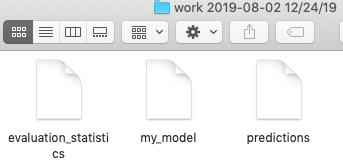
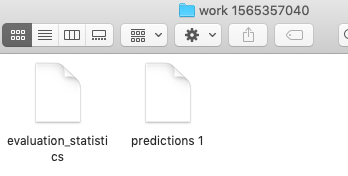
Minor changes

diff --git a/MalariaClassifier/README.md b/MalariaClassifier/README.md
@@ -230,7 +230,7 @@ if (grepl("darwin|linux-gnu", R.version$os)) {
 }
 
 ```
-in your masterscript (just after the beginning). This piece of code will automatically detect whether you're operating on Windows or Linux/MacOS, therefore it will set a peroper file path. I know we haven't created any masterscripts yet, this is the only step you're supposed to fulfill later. Don't worry, I will remind you to do it. 
+in your masterscript (just after the beginning). This piece of code will automatically detect whether you're operating on Windows or Linux/MacOS, as a result it will set a peroper file path. I know we haven't created any masterscripts yet, this is the only step you're supposed to fulfill later. Don't worry, I will remind you to do it. 
 
 Since we have the framework of our Malaria Classifier project, we can move on to developing our packages now.
 
@@ -290,16 +290,15 @@ Config.txt file is where you declare paths to folders, number of samples etc. At
 
 After running the code, open config.txt file which appeared in MalariaClassifier project folder and fill it similarily to mine:
 
-![Config.txt]()
+![Config.txt](https://github.com/WLOGSolutions/RSuite-examples/blob/malaria/MalariaClassifier/ImagesForDescriptionToExport/config.png)
 
-Of course all of the paths to folders are supposed to be the paths to folders where YOU store your data. One more thing: we don't have our model yet, so we don't know our session_id number. Let's leave this for now, I will tell you when and how to fill it.
+Of course all of the paths to folders are supposed to be the paths to folders where YOU store your data. One more thing: we don't have our model yet, so we don't know our session_id number. Let's leave this for now, I will tell you when and how to fill it. And when it comes to images_for_analysis: you can copy a few images, both parasitized and uninfected, to a single folder. They will serve later as your "real" data.
  
-
 ### Running the project ###
 
 So now we have everything we need to build a malaria classifier in R. The only thing you need to do, is to run two of the masterscripts: first "m_train_model.R", then "m_validate_model.R". 
 
-When it comes to "m_train_model.R" - don't worry if it takes a while to train your model - the amount of time needed depends on the hardware you use. When you installed everything you needed properly and declared the paths to folders as you were supposed to, after executing the whole code, this should appear in your Models folder:
+When it comes to "m_train_model.R" - don't worry if it takes a while to train your model - the amount of time needed depends on the hardware you use. After installing everything properly and declaring the paths to folders as you were supposed to, after executing the whole code, this should appear in your Models folder:
 
 ![screenshot of the Models folder](https://github.com/WLOGSolutions/RSuite-examples/blob/malaria/MalariaClassifier/ImagesForDescriptionToExport/insidemodels.png)
 
@@ -307,7 +306,7 @@ Do you see the number in the name of the model? This number is the session_id. S
 
 After running "m_validate_model.R", your Work folder should consist of:
 
-![screenshot of the Work folder]()
+![screenshot of the Work folder](https://github.com/WLOGSolutions/RSuite-examples/blob/malaria/MalariaClassifier/ImagesForDescriptionToExport/work_folder.png)
 
 Of course the number in the name of subfolder "work + number" you see will be different on your computer - this is because of the fact that its name is based on session_id. Inside this folder, you should find two files: "evaluation_statistics" and "predictions 1".
 
@@ -338,22 +337,28 @@ What's inside them? In R folder, you will find the masterscripts. In libs, the p
 3. Fill config_templ.txt file as it states in the instructions. Declare path to folders, files and number of samples. In particular:
 
 - **new_folder_path** - bear in mind that it should be the path to the folder "Work" you've just created. This way you will have all your results in one place. 
-- **id_test, id_valid, id_train** - they are used for training and testing models, so they aren't needed for production (they aren't used in "m_validate_model.R" or "m_score_model.R"). They indicate the indices of training, validation and testing samples (both parasitized and uninfected): [1, id_train] is the interval of the indices of training samples, [id_train+1, id_valid] of validation samples and [it_valid+1, id_test] of testing samples.
+- **id_test, id_valid, id_train** - they are used for training and testing models, so they aren't needed for production (they aren't used in "m_validate_model.R" or "m_score_model.R"). They denote the indices of training, validation and testing samples (both parasitized and uninfected): [1, id_train] is the interval of the indices of training samples, [id_train+1, id_valid] of validation samples and [it_valid+1, id_test] of testing samples.
 - **session_id** - this is extremely important for people using "m_validate_model.R" and "m_score_model.R". This id will indicate which of the models to use. Each of the models from "Models" folder will be named "model + number". And this number of a wanted model is what you're supposed to type in session_id.
 - **images_for_analysis** - only for your coworkers. The path to a folder where they store folder with the samples to be tested using the models you built.
 - **prediction_id** - also, very importand for your coworkers. When they want to use the same model to test different samples, they need to distinguish the files with the results somehow. And this is why they need to fill "prediction_id". It will appear in the name of the file with predictions (the file will be called "predictions + prediction_id").
 
 4. Open the terminal and go to the folder "Production". Then open R folder and type:
 ```
-Rscript m_model.R
+Rscript m_train_model.R
 ```
 This command should start executing the code from the masterscript "m_train_model.R". Your model is supposed to be trained and saved in the "Models" folder. When everything has run properly, type:
 ```
-Rscript m_score.R
+Rscript m_validate_model.R
 ```
-This should execute the code from the masterscript "m_validate_model.R". After everything has run properly, in your "Work" folder, you should find the following files:
+This should execute the code from the masterscript "m_validate_model.R". After everything has run properly, in your "Work" folder, in subfolder "work + session_id", you should find the following files:
 
-<screenshot of a work folder>
+[insideWork](https://github.com/WLOGSolutions/RSuite-examples/blob/malaria/MalariaClassifier/ImagesForDescriptionToExport/insideWork.png)
+
+Now you can check out how "m_score_model.R" works. Set "prediction_id" number to 2 in your config file and type:
+```
+Rscript m_score_model.R
+```
+in your console. A new file called "predictions 2" should appear in the subfolder "work + session_id".
 
 Take a quick look on how the content of MalariaClassifier folder presents itself now:
 
@@ -361,7 +366,7 @@ Take a quick look on how the content of MalariaClassifier folder presents itself
 
 As you can see, there is one new folder - sbox. This is in case we require any packages in the masterscripts using R "library()" function - we load it only locally then. There is a new file too - config.txt. Its content was automatically copied from config_templ.txt.
 
-And this is it. You created your first Malaria Classifier using R and prepared it for deployment. There is nothing left to do, than to present to your friends how to use it. By the way, [this subsection](#deployment:-installing-deployment-package) is a great start for the description of how to use your solution, which should be given to your coworkers. This way they will know exactly what to do with the ZIP file you gave them. And if they want to know how you created the model - click [here]().
+And this is it. You created your first Malaria Classifier using R and prepared it for deployment. There is nothing left to do, than to present to your friends how to use it. By the way, [this subsection](#deployment-installing-deployment-package) is a great start for the description of how to use your solution, which should be given to your coworkers. This way they will know exactly what to do with the ZIP file you gave them. And if they want to know how you created the model - click [here](#understanding-malaria-project-step-by-step).
 
 ### Summary ###
 
@@ -373,6 +378,7 @@ So, let's sum up what we've just done:
 
 This means we successfully completed the task described in the introduction. If you're interested in creating and developing similar projects, please check out these articles:
 
+- Classifying handwritten digits (MNIST dataset) using Keras and Shiny [click here](https://github.com/WLOGSolutions/Keras_and_Shiny)
 -
 
 And if you want to know exactly how and why the particular parts of the R code were created, the next section is for you.
@@ -534,7 +540,7 @@ predictClassesAndProbabilities <- function(model, test_data){
   return(dt)
 }
 ```
-As you can see, it uses Keras `predict_generator` function, which...
+As you can see, it uses Keras `predict_generator` function, which returns the values, based on which the samples' classes are determined. Using `ifelse` we can obtain these classes. 
 
 5. `getInfectedIndices` - it reads the file with predictions and returns a data frame with the index and the probability of a person being infected. It looks only among people who have been identified with class 1 (parasitized) during the examination. In addition, there is `treshold` parameter, which denotes the probability above which we want to have the sample's characteristics written in the data frame.
 
@@ -542,7 +548,7 @@ As you can see, it uses Keras `predict_generator` function, which...
 
 1. `saveModel` - saves the model into a hdf5 file using Keras `save_model_hdf5` function. After executing the function, you can find the trained model on the previously specified saving path, under the name "model + session_id".
 
-2. `getSessionId` - the function, which is based on a numeric version of `Sys.time()`, generates `session_id`. Note, that for each trained model, a different `session_id` is assigned to its name. Later, while making predictions, they are saved in a "work + session_id" folder, where session_id is the used model's session_id.
+2. `getSessionId` - the function, which is based on a numeric version of `Sys.time()`, generates `session_id`. Note that for each trained model, a different `session_id` is assigned to its name. Later, while making predictions, they are saved in a "work + session_id" folder, where "session_id" is the used model's "session_id".
 
 3. `loadModel` - loads the model which was previously saved into a hdf5 file. It uses Keras `load_model_hdf5` function under the hood.
 
